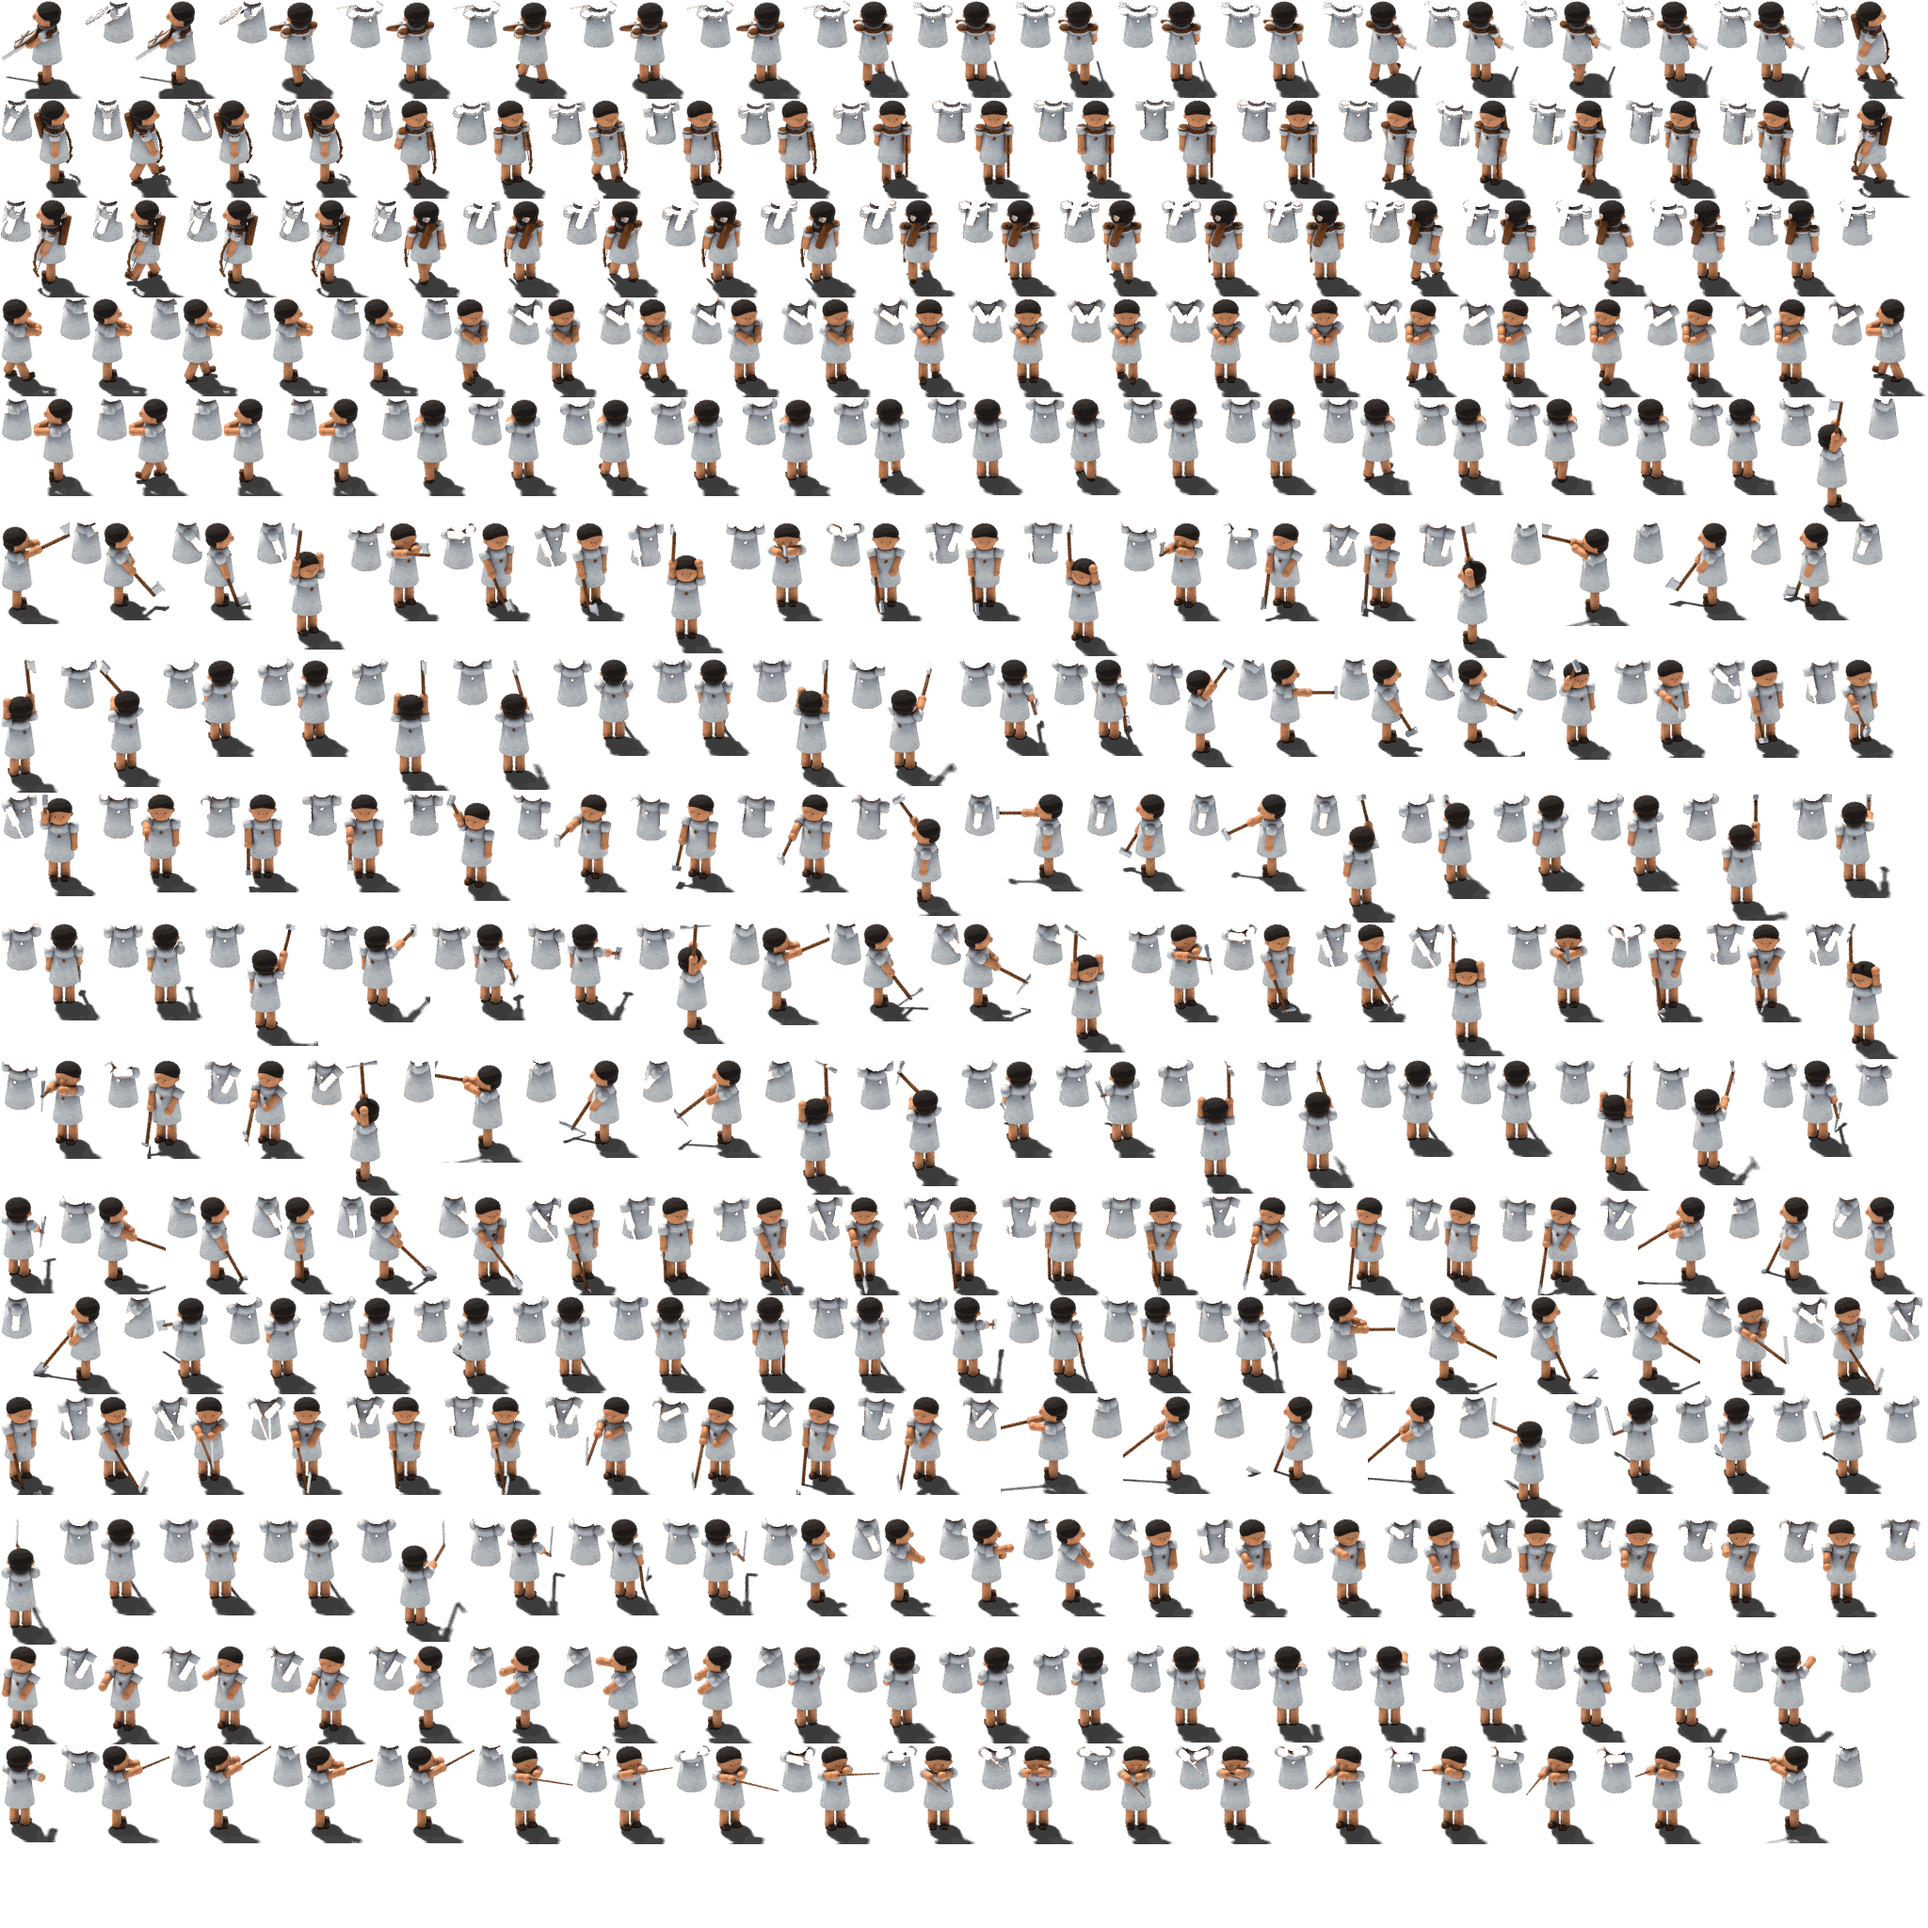
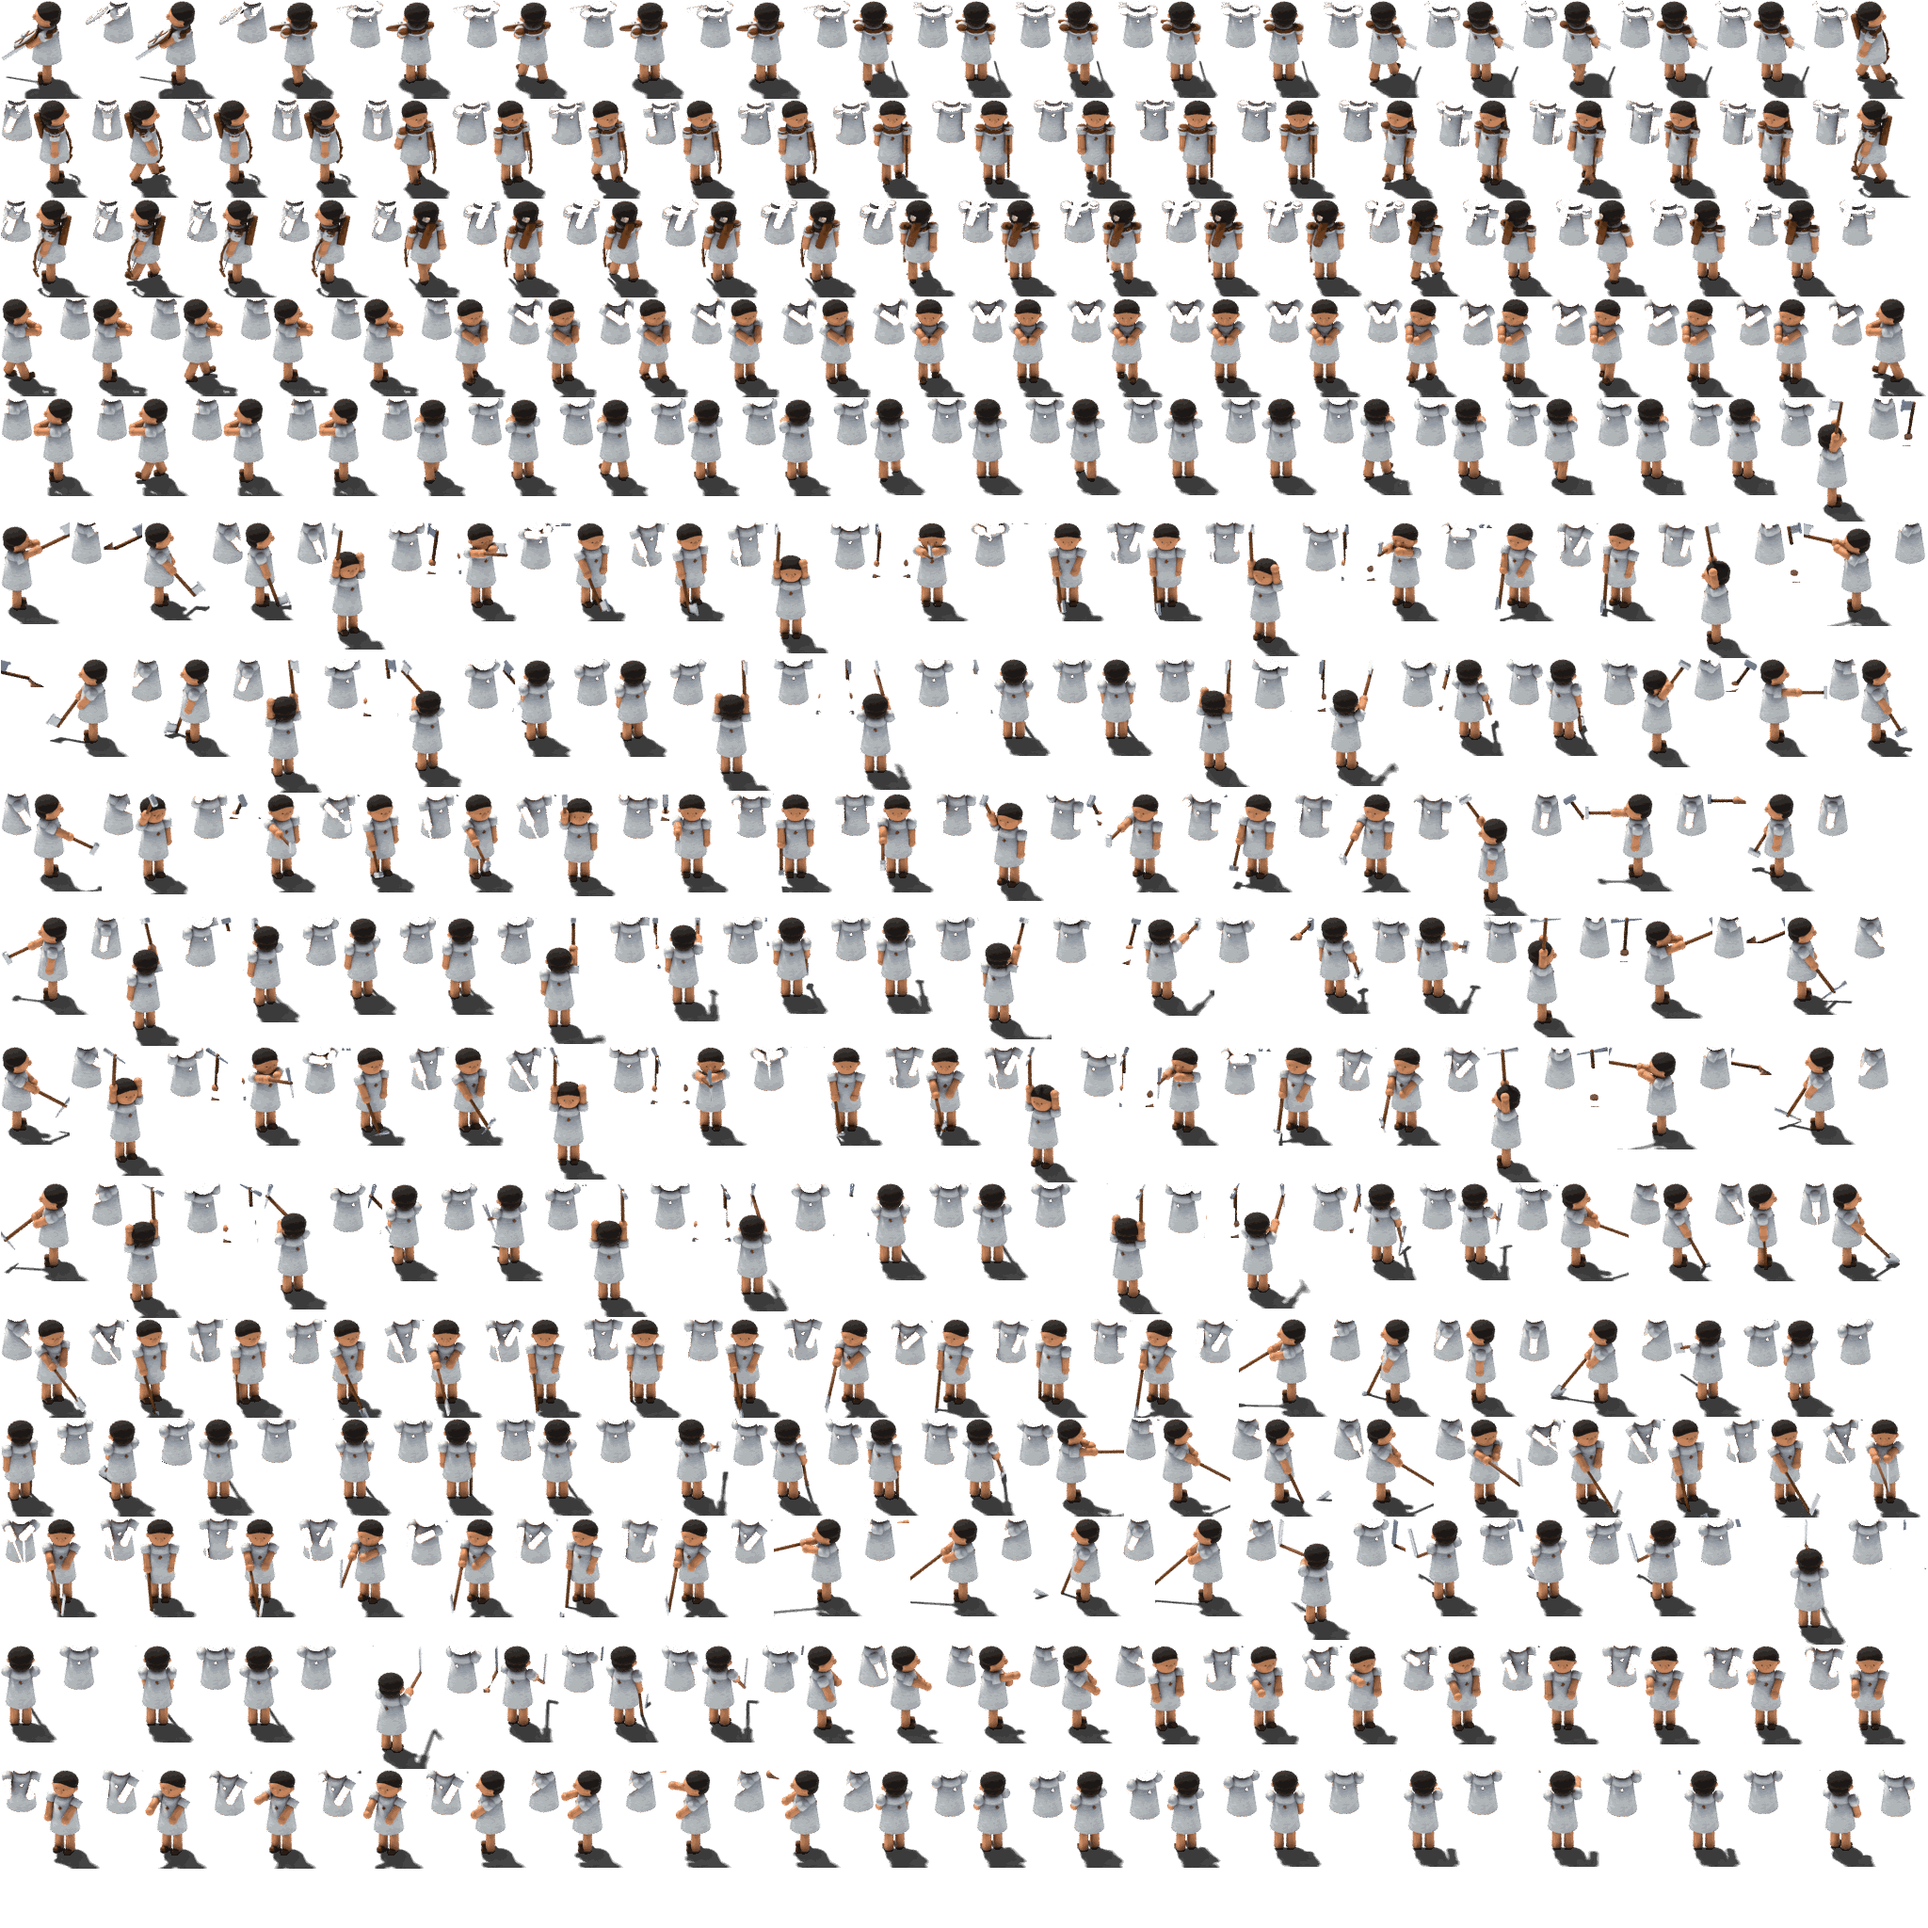
3D settlers: arms and tools in front of the face are drawn above the hat
Work poses get a third render pass: only the arms and tools render,
the body, head and a hat-sized proxy are holdouts, rows below the neck
are cleared. The game draws it above the hat layer (the 3D path reuses
the arm sprite), so a raised axe or pick no longer vanishes under the
brim. Settlers re-rendered (CPU, under the Blender lock) and quantized.

diff --git a/src/render/settler3d.ts b/src/render/settler3d.ts
@@ -21,8 +21,11 @@ export interface SettlersMeta {
   pages: string[];
   /** [page, x, y, w, h, anchorX, anchorY] in page pixels. */
   frames: [number, number, number, number, number, number, number][];
-  /** `hold:<tool>` (walk frames, then standing) and `work:<action>`: [dir][frame] → [full, tint] frame ids. */
-  groups: Record<string, [number, number][][]>;
+  /**
+   * `hold:<tool>` (walk frames, then standing) and `work:<action>`: [dir][frame] → [full, tint] frame
+   * ids; work frames add a third, the arm-over-hat layer (−1 when the arms stay below the head).
+   */
+  groups: Record<string, number[][][]>;
   /** Hat style → [dir] frame id (−1: none). */
   hats: Record<string, number[]>;
   /** [dir][walk frame or standing]: goods in hand, relative to the anchor (logical px). */
@@ -33,10 +36,14 @@ export interface SettlersMeta {
   rankY: number;
 }
 
-/** One frame: the full sprite and its tintable part (null when the pose shows none). */
+/**
+ * One frame: the full sprite, its tintable part (null when the pose shows none) and, for work poses,
+ * the arms and tool where they pass in front of the head, drawn above the hat (null when they don't).
+ */
 export interface Frame3d {
   full: Texture;
   tint: Texture | null;
+  over: Texture | null;
 }
 
 export interface Settler3d {
@@ -68,7 +75,7 @@ export function buildSettler3d(meta: SettlersMeta, pages: HTMLImageElement[]): S
   const group = (key: string): Frame3d[][] => {
     const g = meta.groups[key];
     if (!g) throw new Error(`settlers.json has no group ${key}`);
-    return g.map((row) => row.map(([full, tint]) => ({ full: tex(full)!, tint: tex(tint) })));
+    return g.map((row) => row.map(([full, tint, over]) => ({ full: tex(full)!, tint: tex(tint), over: tex(over ?? -1) })));
   };
   const hold = Object.fromEntries(TOOLS.map((t) => [t, group(`hold:${t}`)])) as Record<ToolShape, Frame3d[][]>;
   const work = Object.fromEntries(ACTION_IDS.filter((a) => a !== 'idle').map((a) => [a, group(`work:${a}`)])) as Record<

diff --git a/src/render/renderer.ts b/src/render/renderer.ts
@@ -1546,7 +1546,10 @@ export class GameRenderer {
         const hat = s3d.hats[style.hatStyle][shown];
         v.hat.visible = hat !== null;
         if (hat) setFrame(v.hat, hat);
-        v.head.visible = v.arm.visible = false;
+        v.head.visible = false;
+        // Arms and tool passing in front of the face are drawn again above the hat.
+        v.arm.visible = fr.over !== null && hat !== null;
+        if (fr.over && hat) setFrame(v.arm, fr.over);
         // The 3D figure is rendered large for detail; shrunk to Settlers 4 proportions next to buildings.
         v.root.scale.set(SETTLER_3D_SCALE, SETTLER_3D_SCALE);
         const away = s3d.carryBehind[shown];

diff --git a/art/blender/figures.py b/art/blender/figures.py
@@ -383,6 +383,66 @@ def render_mask(scene, path, mask_mat):
     return read_png(path)
 
 
+def build_hat_proxy(fig):
+    """The space any hat may take (the union of the hat styles, a little generous): hidden in the
+    normal passes, a holdout in the arm-over-hat pass. Built in figure space like the hats."""
+    scale = fig.root.scale.copy()
+    fig.root.scale = (1, 1, 1)
+    fig.root.rotation_euler = (0, 0, 0)
+    bpy.context.view_layer.update()
+    z = 0.76
+    objs = [
+        lib.sphere((-0.01, 0, z + 0.06), 0.16, None, scale=(1.05, 1.05, 0.85)),
+        lib.cylinder((0, 0, z + 0.07), 0.25, 0.03, None, verts=24),
+        lib.cylinder((-0.01, 0, z + 0.16), 0.15, 0.26, None, verts=18),
+        lib.cylinder((-0.02, 0, z - 0.1), 0.17, 0.1, None, verts=18),
+    ]
+    for o in objs:
+        fig.attach(o, fig.root)
+        o.hide_render = True
+    fig.root.scale = scale
+    bpy.context.view_layer.update()
+    return objs
+
+
+def arm_parts(fig):
+    """Every mesh hanging from the shoulders: sleeves, arms, hands, and the tools at the grips."""
+    parts = []
+    for p in fig.arms:
+        parts += [o for o in p.children_recursive if o.type == 'MESH']
+    return parts
+
+
+def render_over(scene, path, fig, proxy, neck_y):
+    """Arm-over-hat pass for work poses: only the arms and tools render, everything else (the body,
+    head and the hat proxy) is a holdout, so what remains is the arm and tool where they pass in front
+    of the head and any hat. Rows below the neck are cleared (no hat there to cover), so frames with
+    the arms down come out empty. The game draws it above the hat layer."""
+    arms = set(arm_parts(fig))
+    catcher = bpy.data.objects['ShadowCatcher']
+    changed = []
+    for o in scene.objects:
+        if o.type != 'MESH' or o is catcher or o.hide_render and o not in proxy:
+            continue
+        if o not in arms:
+            changed.append(o)
+            o.is_holdout = True
+    for o in proxy:
+        o.hide_render = False
+    samples, denoise = scene.cycles.samples, scene.cycles.use_denoising
+    scene.cycles.samples, scene.cycles.use_denoising = 10, False
+    catcher.hide_render = True
+    px = render_full(scene, path)
+    catcher.hide_render = False
+    scene.cycles.samples, scene.cycles.use_denoising = samples, denoise
+    for o in proxy:
+        o.hide_render = True
+    for o in changed:
+        o.is_holdout = False
+    px[int(neck_y):, :, 3] = 0
+    return px
+
+
 class Packer:
     """Trims frames to their opaque pixels and shelf-packs them into PAGE×PAGE pages."""
 
@@ -451,6 +511,11 @@ def build_settlers(out, tmp, only=None, hats=None):
     cache = os.path.join(tmp, 'settlers-cache')
     os.makedirs(cache, exist_ok=True)
     fig = Figure()
+    proxy = build_hat_proxy(fig)
+    # Rows below the head (render pixels): the arm-over-hat pass keeps only what is above.
+    fig.pose(0.0)
+    _, neck = lib.screen_point(scene, fig.root.matrix_world @ Vector((0, 0, 0.66)))
+    neck_y = neck * lib.RESOLUTION
     mask_mat = mask_material()
     pack = Packer()
     meta = {
@@ -460,6 +525,7 @@ def build_settlers(out, tmp, only=None, hats=None):
     }
     path = os.path.join(tmp, 'fig.png')
     mpath = os.path.join(tmp, 'fig-mask.png')
+    opath = os.path.join(tmp, 'fig-over.png')
     yaws = []
     for d in range(DIRS):
         gx, gy = lib.ground_dir(d * math.pi / 4)
@@ -468,7 +534,9 @@ def build_settlers(out, tmp, only=None, hats=None):
         if only and key not in only:
             continue
         # Each group is cached (uint8) once rendered, so an interrupted run resumes where it stopped.
-        cached = os.path.join(cache, key.replace(':', '-') + f'-{DIRS}.npz')
+        work = key.startswith('work:')
+        per = 3 if work else 2  # work poses add the arm-over-hat pass
+        cached = os.path.join(cache, key.replace(':', '-') + f'-{DIRS}-{per}.npz')
         if os.path.exists(cached):
             data = np.load(cached)['frames'].astype(np.float32) / 255
         else:
@@ -482,6 +550,8 @@ def build_settlers(out, tmp, only=None, hats=None):
                     tint = full.copy()
                     tint[..., 3] = full[..., 3] * np.clip(mask, 0, 1)
                     data += [full, tint]
+                    if work:
+                        data.append(render_over(scene, opath, fig, proxy, neck_y))
             data = np.stack(data)
             np.savez_compressed(cached, frames=np.round(np.clip(data, 0, 1) * 255).astype(np.uint8))
         rows = []
@@ -489,8 +559,8 @@ def build_settlers(out, tmp, only=None, hats=None):
         for d in range(DIRS):
             row = []
             for _ in frames:
-                row.append([pack.add(data[k]), pack.add(data[k + 1])])
-                k += 2
+                row.append([pack.add(data[k + j]) for j in range(per)])
+                k += per
             rows.append(row)
         meta['groups'][key] = rows
         print('settlers: rendered', key, flush=True)
